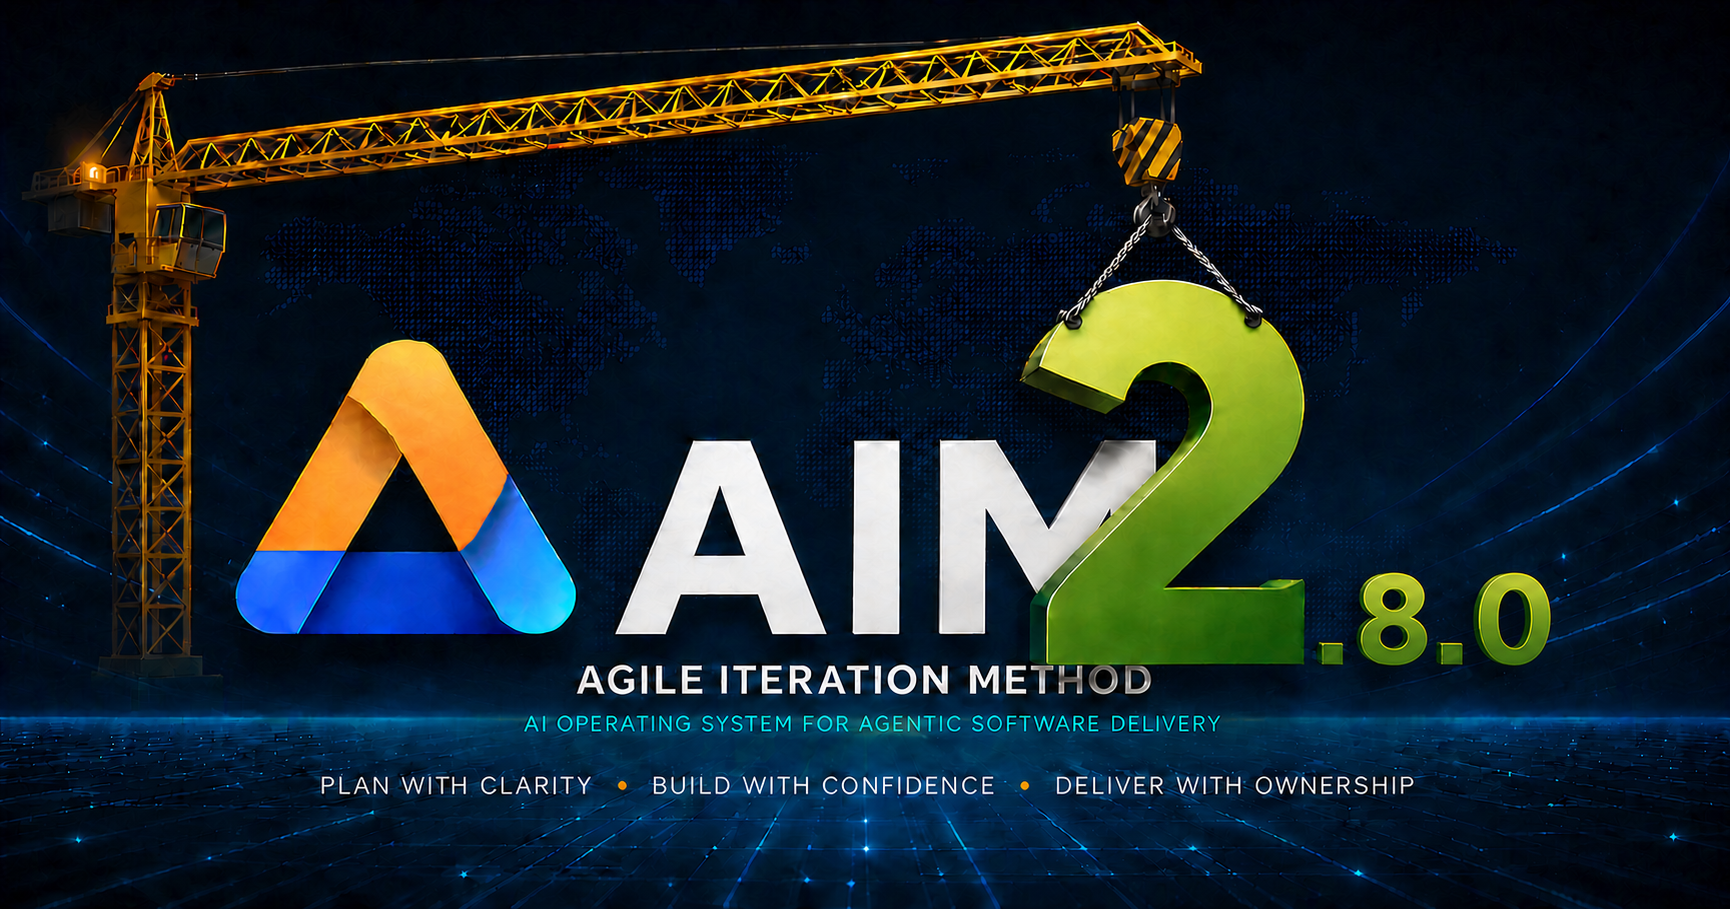
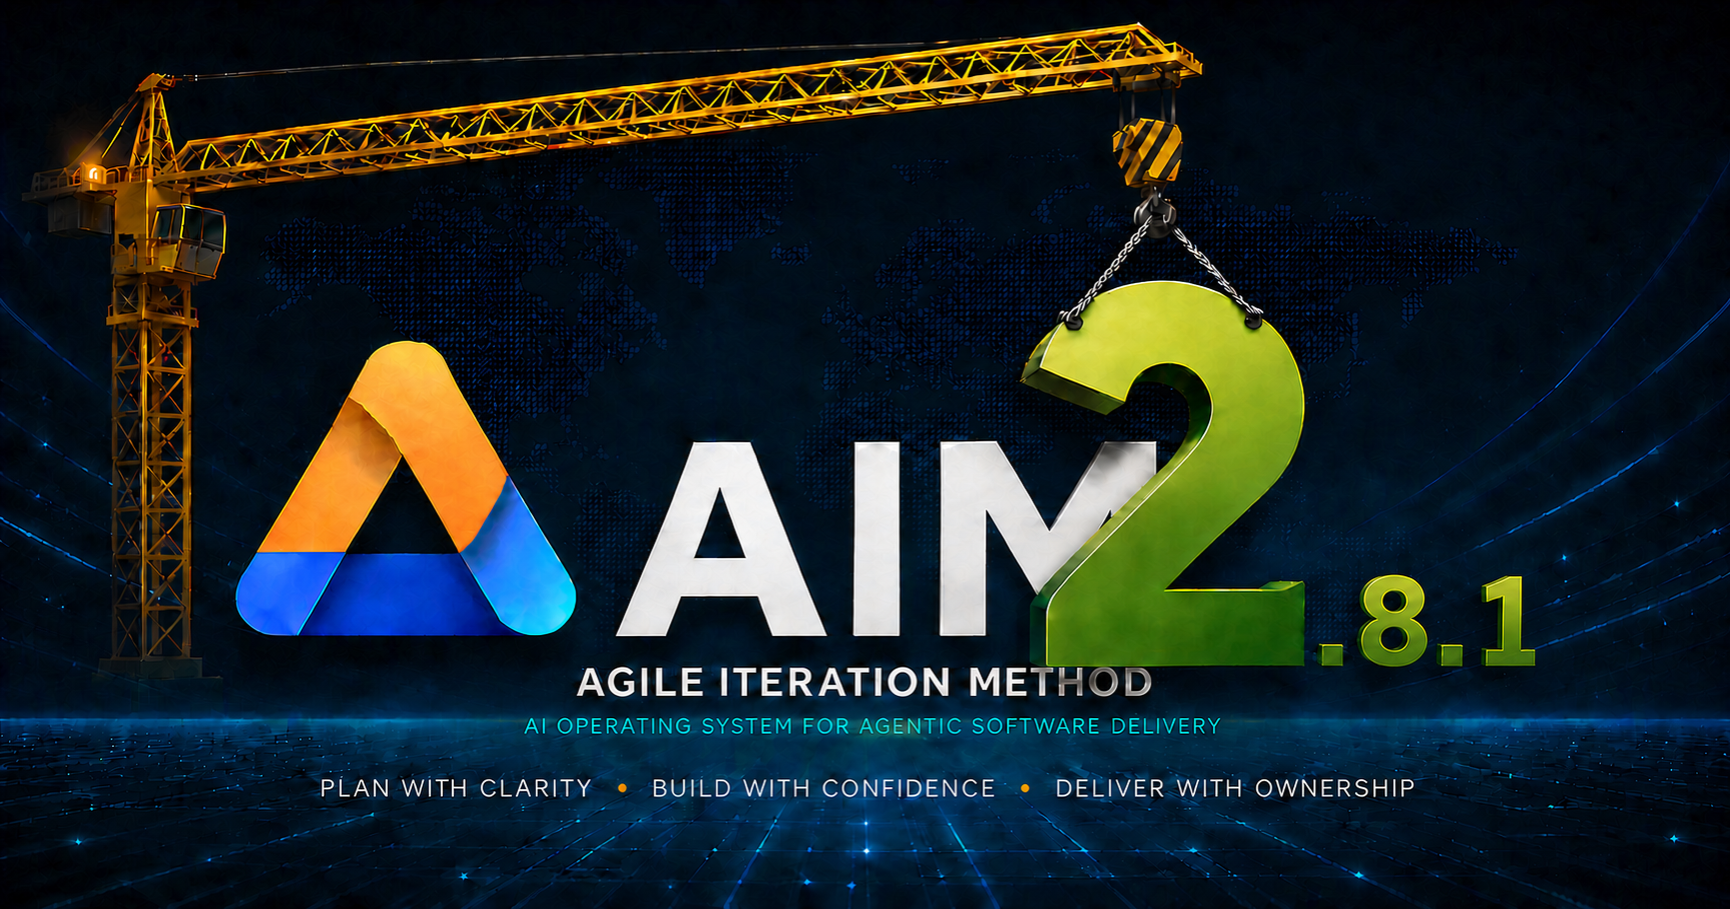
release: AIM 2.8.1 runtime history projection
Publish the fail-closed AIM UI projection fix, synchronize public version surfaces, and refresh the 2.8.1 release artwork.

diff --git a/index.html b/index.html
@@ -31,7 +31,7 @@
     "url": "https://joneri.github.io/agile-iteration-method/",
     "applicationCategory": "DeveloperApplication",
     "operatingSystem": "Any",
-    "softwareVersion": "2.8.0",
+    "softwareVersion": "2.8.1",
     "author": { "@type": "Person", "name": "Jonas Eriksson" },
     "license": "https://creativecommons.org/licenses/by/4.0/",
     "codeRepository": "https://github.com/joneri/agile-iteration-method"
@@ -890,7 +890,7 @@
   <nav class="site-nav" aria-label="Primary navigation">
     <div class="container nav-inner">
       <a class="brand" href="#top" aria-label="AIM 2 home">
-        <span>AIM</span><span class="brand-version">2.8.0</span>
+        <span>AIM</span><span class="brand-version">2.8.1</span>
       </a>
       <div class="nav-links">
         <a href="#why">Why AIM</a>
@@ -1189,7 +1189,7 @@
     <section class="band band-mist" id="rebuilt">
       <div class="container rebuild">
         <figure class="brand-visual">
-          <img src="github-pages/assets/images/aim-2-hero-dark.png" alt="AIM 2.8.0 Agile Iteration Method logo">
+          <img src="github-pages/assets/images/aim-2-hero-dark.png" alt="AIM 2.8.1 Agile Iteration Method logo">
         </figure>
         <div>
           <p class="eyebrow">Rebuilt for AIM 2</p>

diff --git a/tests/test_publication.py b/tests/test_publication.py
@@ -64,7 +64,7 @@ class PublicationContractTests(unittest.TestCase):
             manifest = json.loads(
                 (output / "release-manifest.json").read_text(encoding="utf-8")
             )
-            self.assertEqual(manifest["aimVersion"], "2.8.0")
+            self.assertEqual(manifest["aimVersion"], "2.8.1")
             self.assertEqual(manifest["runtimeContractVersion"], "2.0")
             self.assertEqual(manifest["runtimeStateSchemaVersion"], "1.0")
             self.assertIn(
@@ -138,8 +138,8 @@ class PublicationContractTests(unittest.TestCase):
         self.assertIn("Private conversations, rejected drafts", index)
         self.assertIn('id="ui"', index)
         self.assertIn("docs/product/aim-ui.md", index)
-        self.assertIn('alt="AIM 2.8.0 Agile Iteration Method logo"', index)
-        self.assertIn('<span class="brand-version">2.8.0</span>', index)
+        self.assertIn('alt="AIM 2.8.1 Agile Iteration Method logo"', index)
+        self.assertIn('<span class="brand-version">2.8.1</span>', index)
         self.assertIn("Put the backlog in motion.", index)
         self.assertIn("Keep control.", index)
         self.assertIn("github-pages/assets/images/aim-ui-beta-control-room.png", index)
@@ -163,7 +163,7 @@ class PublicationContractTests(unittest.TestCase):
         inventory = (
             REPO_ROOT / "github-pages/assets/images/README.md"
         ).read_text(encoding="utf-8")
-        self.assertGreaterEqual(inventory.count("AIM 2.8.0"), 3)
+        self.assertGreaterEqual(inventory.count("AIM 2.8.1"), 3)
         self.assertIn("AIM UI Beta", inventory)
 
     def test_stale_brand_artwork_version_blocks_publication(self) -> None:
@@ -172,7 +172,7 @@ class PublicationContractTests(unittest.TestCase):
             index = copied / "index.html"
             index.write_text(
                 index.read_text(encoding="utf-8").replace(
-                    '<span class="brand-version">2.8.0</span>',
+                    '<span class="brand-version">2.8.1</span>',
                     '<span class="brand-version">2.7</span>',
                 ),
                 encoding="utf-8",

diff --git a/tests/test_documentation_audit.py b/tests/test_documentation_audit.py
@@ -34,7 +34,7 @@ class DocumentationAuditTests(unittest.TestCase):
             readme = copied / "README.md"
             readme.write_text(readme.read_text() + "\n[missing](docs/nope.md)\n", encoding="utf-8")
             index = copied / "index.html"
-            index.write_text(index.read_text().replace('"softwareVersion": "2.8.0"', '"softwareVersion": "2.1.0"'), encoding="utf-8")
+            index.write_text(index.read_text().replace('"softwareVersion": "2.8.1"', '"softwareVersion": "2.1.0"'), encoding="utf-8")
             errors = audit(copied)
         self.assertTrue(any("broken link" in error for error in errors))
         self.assertTrue(any("softwareVersion" in error for error in errors))

diff --git a/tests/test_adapter_command_contract.py b/tests/test_adapter_command_contract.py
@@ -287,7 +287,7 @@ class AdapterCommandContractTests(unittest.TestCase):
 
     def test_status_reports_current_product_release_separately_from_runtime(self) -> None:
         version = (REPO_ROOT / "VERSION").read_text(encoding="utf-8").strip()
-        self.assertEqual(version, "2.8.0")
+        self.assertEqual(version, "2.8.1")
 
         status_surfaces = {
             "canonical": REPO_ROOT / "docs/workflow/adapter-command-contract.md",

diff --git a/scripts/validate_aim_runtime.py b/scripts/validate_aim_runtime.py
@@ -287,7 +287,7 @@ PUBLIC_PRODUCT_DOC_PATHS = {
         "# Agile Iteration Method (AIM) 2.8",
         "## Install",
         "## How AIM works",
-        "## What is new in v2.8.0",
+        "## What is new in v2.8.1",
         "/aim reflect",
         "/aim reflect-all",
         "goes beyond memory cleanup for repository work",

diff --git a/README.md b/README.md
@@ -1,6 +1,6 @@
 # Agile Iteration Method (AIM) 2.8
 
-![AIM 2.8.0 - Agile Iteration Method](github-pages/assets/images/aim-2-hero-dark.png)
+![AIM 2.8.1 - Agile Iteration Method](github-pages/assets/images/aim-2-hero-dark.png)
 
 AIM is a delivery method for AI-assisted software work. You describe the outcome. AIM plans one useful increment, builds it, reviews it, validates it, and asks for the decisions that still belong to you.
 
@@ -130,17 +130,17 @@ All adapters use the same AIM roles, gates, state ownership, and `/aim` command 
 
 AIM applies **audience-context integrity** to everything it generates: write the intended current meaning for the reader, and keep private conversations, rejected drafts, prompts, AI mistakes, and review feedback out of product copy, UI, code comments, and documentation. Changelogs and other intentionally historical artifacts keep the history their audience actually needs.
 
-## What is new in v2.8.0
+## What is new in v2.8.1
 
-AIM UI now separates active Epic priority from accepted delivery history.
-Recent Deliveries retains the ten latest validated Increments with parent-Epic
-traceability, evidence details, complete-history navigation, and safe follow-up
-proposals without reopening closed identities.
+AIM UI now treats a Backlog record with `runtimeIncrementId` as retained runtime
+history, never as a new planning candidate. If its exact Epic and Increment are
+not present in the active Portfolio catalog, the record is excluded from Planned
+work and Start Epic actions and shown through an identity-rich, read-only
+diagnostic instead.
 
-In Portfolio-enabled repositories, `/aim start` now creates and registers a
-dedicated current-contract workspace through a trusted fail-closed transaction.
-Stale, colliding, escaped, orphaned, or legacy relations are blocked or shown as
-explicit read-only diagnostics instead of producing invisible work.
+Valid catalogued runtime remains authoritative, while genuine Backlog candidates
+without runtime authority remain planned and activatable. The browser still
+cannot migrate, accept, repair, or re-register runtime state.
 
 ![AIM UI Beta control room](github-pages/assets/images/aim-ui-beta-control-room.png)
 
@@ -164,6 +164,6 @@ verified provenance and user-owned promotion. The AIM runtime contract remains
 - [Platforms and project specialists](docs/product/platforms-and-adoption.md) · [Install and upgrade](docs/workflow/install-aim-2.0.md) · [Canonical AIM method](docs/workflow/agile-iteration-method.md)
 - [AIM Reflect](docs/workflow/reflection.md) · [Troubleshooting](docs/workflow/troubleshoot-aim-2.0.md) · [Release and publication](docs/workflow/release-publication-model.md) · [Public Agent Skill distribution](docs/workflow/version-and-installation.md)
 
-Current product release: **v2.8.0**. See [CHANGELOG.md](CHANGELOG.md).
+Current product release: **v2.8.1**. See [CHANGELOG.md](CHANGELOG.md).
 
 Documentation is licensed under [CC BY 4.0](LICENSE).

diff --git a/CHANGELOG.md b/CHANGELOG.md
@@ -1,5 +1,33 @@
 # Changelog
 
+## 2026-08-25 - AIM 2 patch release v2.8.1
+- Prevented Backlog records that already carry `runtimeIncrementId` from being
+  synthesized as new Planned Epics when their exact runtime workspace is absent
+  from the active Portfolio catalog.
+- Removed Start Epic actions from unresolved runtime-linked history while
+  preserving ordinary candidates without runtime authority as activatable work.
+- Added identity-rich, read-only diagnostics containing candidate, Epic, and
+  runtime Increment IDs so archived or catalog-drifted relations fail closed
+  without rewriting history.
+- Added regression coverage for archived runtime, mismatched runtime, valid
+  catalogued runtime, genuine planning candidates, and the GET/HEAD-only UI
+  boundary.
+- Synchronized the canonical read model, public documentation, adapter contract,
+  and generated public Agent Skill payload.
+
+Compatibility: AIM runtime contract remains `2.0`, runtime-state schema remains
+`1.0`, installer manifest remains `1.0`, and public skill package format remains
+`8`. Existing Backlog and workspace files require no migration and are never
+rewritten by AIM UI.
+
+Migration: update the public Agent Skill with
+`npx skills update agile-iteration-method --yes`, then restart AIM UI. Adaptive
+installations can rerun their reviewed preview/apply installer flow.
+
+Known limitations: unresolved runtime-linked records are intentionally excluded
+from activation and surfaced for reviewed history or catalog repair. AIM UI does
+not search archives, infer acceptance, or re-register workspaces automatically.
+
 ## 2026-08-23 - AIM 2 minor release v2.8.0
 - Separated active Epic prioritization from accepted delivery history in AIM
   UI. Recent Deliveries now retains the ten latest validated Increments in

diff --git a/github-pages/assets/images/README.md b/github-pages/assets/images/README.md
@@ -2,8 +2,8 @@
 
 Source images intended for the AIM website published from the `gh-pages` branch.
 
-- `aim-2-hero-dark.png`: canonical dark AIM 2.8.0 logo and website hero artwork
-- `AIM_OG.png` at the repository root: matching AIM 2.8.0 Open Graph artwork
+- `aim-2-hero-dark.png`: canonical dark AIM 2.8.1 logo and website hero artwork
+- `AIM_OG.png` at the repository root: matching AIM 2.8.1 Open Graph artwork
 - `aim-ui-beta-control-room.png`: wide AIM UI Beta feature illustration for the
   dedicated website section
 - `portfolio-auto-demo-poster.jpg`: lightweight poster frame for the real
@@ -11,7 +11,7 @@ Source images intended for the AIM website published from the `gh-pages` branch.
 
 The two version-bearing assets above must display the exact current product
 release from `VERSION`. They were visually
-verified as AIM 2.8.0 on 2026-08-23.
+verified as AIM 2.8.1 on 2026-08-25.
 
 The AIM 2 brand artwork and AIM UI Beta illustration were produced with
 OpenAI's built-in image generation. The feature illustration uses AIM's navy,

diff --git a/skills/agile-iteration-method/references/version-and-installation.md b/skills/agile-iteration-method/references/version-and-installation.md
@@ -7,7 +7,7 @@ Source: docs/workflow/version-and-installation.md
 
 ## Resolved package metadata
 
-- AIM product release: `2.8.0`
+- AIM product release: `2.8.1`
 - Runtime contract: `2.0`
 - Runtime-state schema: `1.0`
 - Installer manifest: `1.0`
